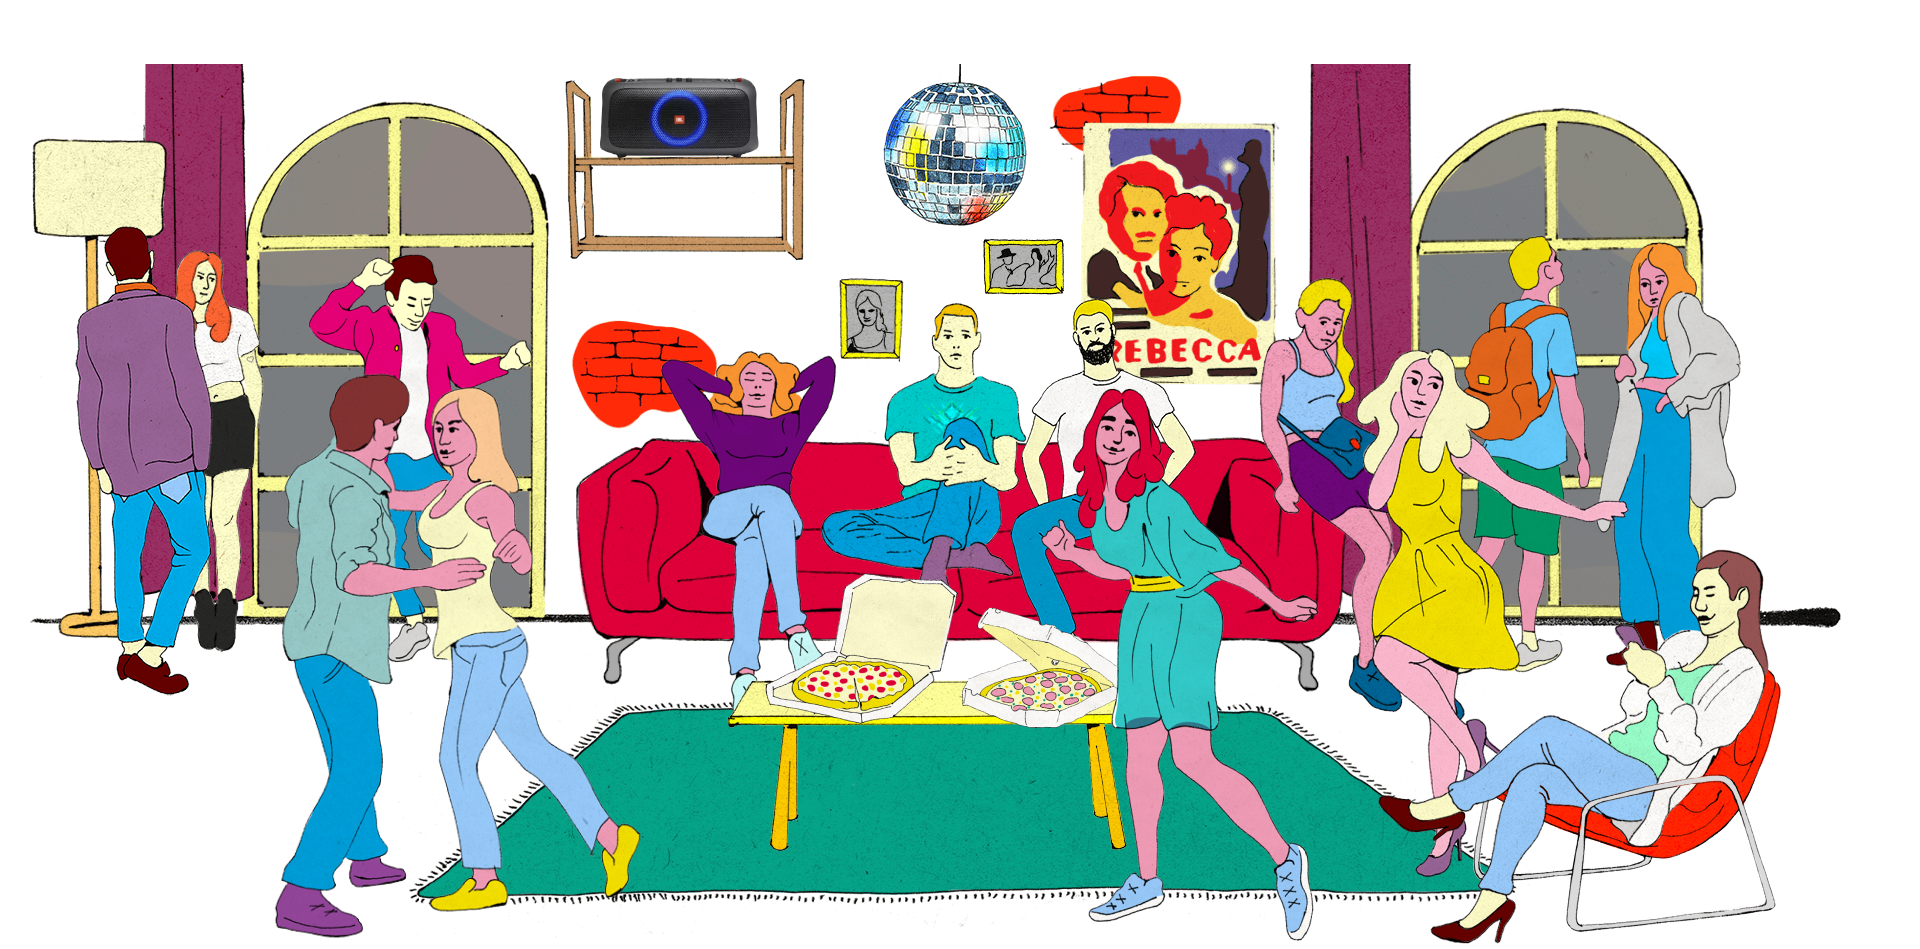
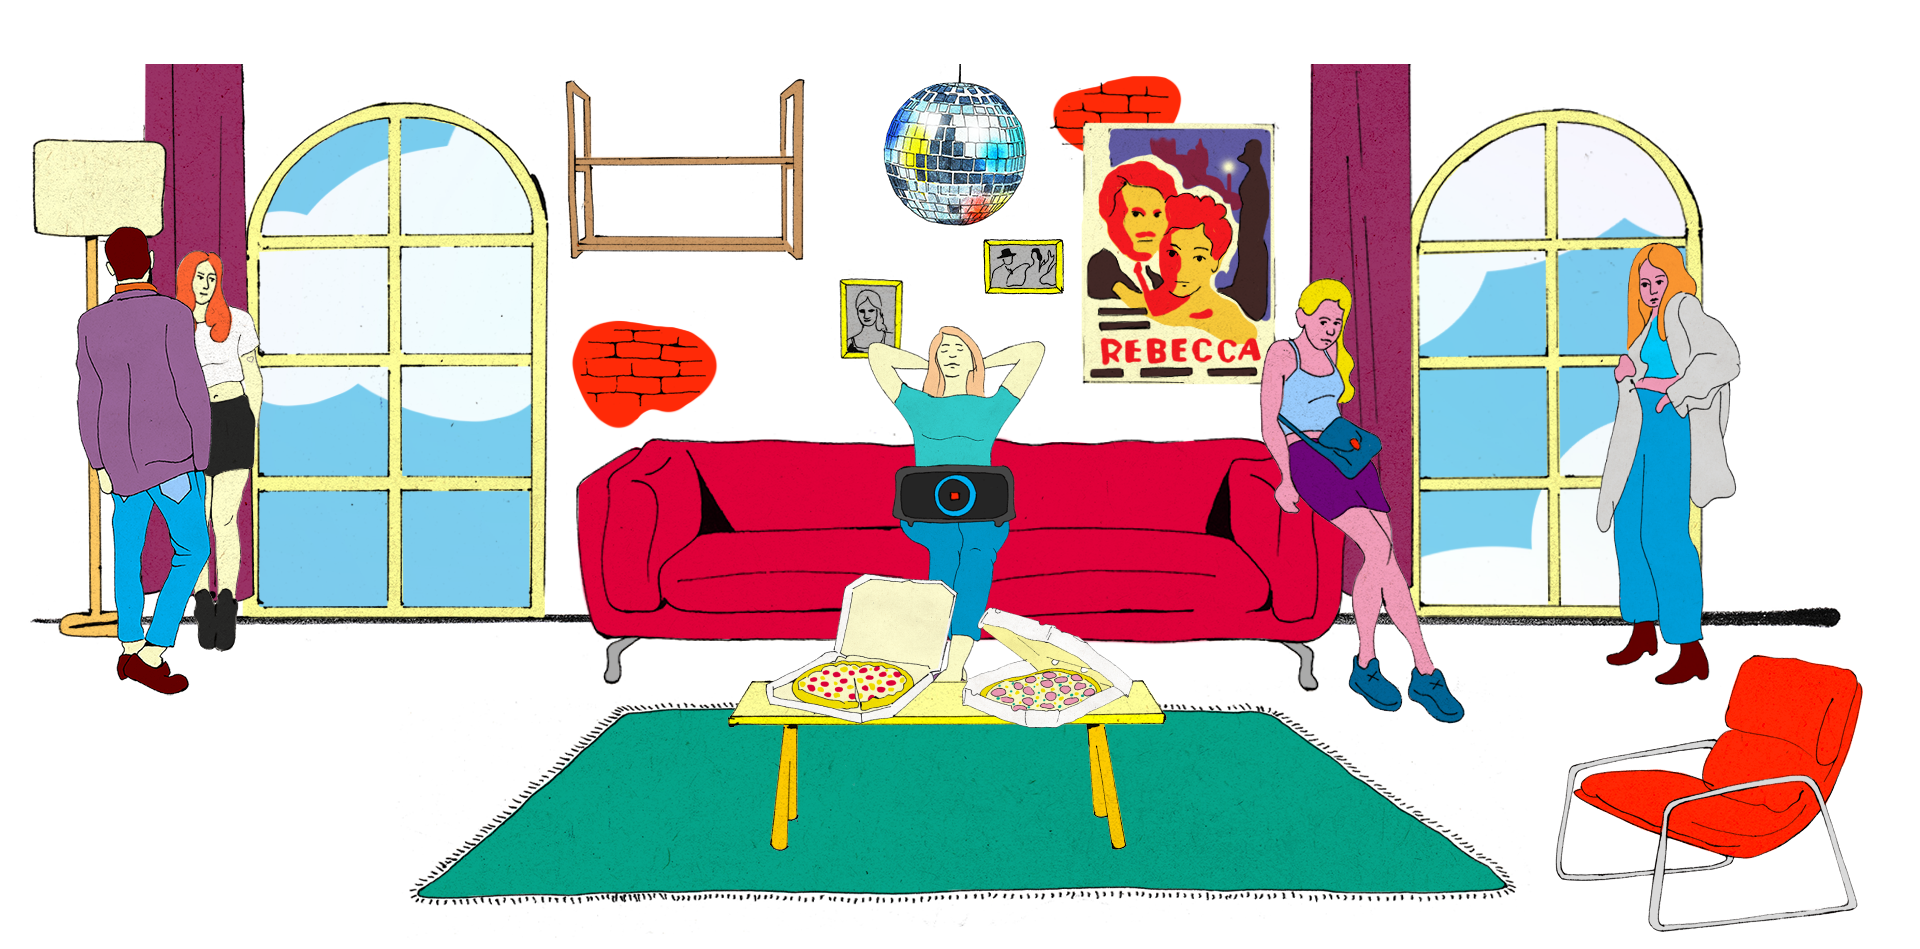
Finish level 2

Changed region(s): [[0.3438, 0.1222, 0.9688, 1.0], [0.125, 0.1222, 0.3438, 1.0], [0.3125, 0.0611, 0.4062, 0.1834]]

diff --git a/src/components/Game/levelsData.js b/src/components/Game/levelsData.js
@@ -3,16 +3,36 @@ const levels = [
         bgImg: 7,
         corect: 12,
         nocorect: 12,
-        animate: [
-            {id: 28, style: {left: '33.7em', top: '18.3em', width: '22.9em', height: '42.1em'}},
-            {id: 29, style: {left: '143.2em', top: '16.8em', width: '14.6em', height: '43.8em'}},
-            {id: 30, style: {left: '132.9em', top: '24.1em', width: '20.2em', height: '56.2em'}},
+        animatePlus: [
+            {id: 28, style: {left: '33.7em', top: '18.3em', width: '22.9em', height: '42.1em'}},//Парень в розовой рубашке
+            {id: 29, style: {left: '143.2em', top: '16.8em', width: '14.6em', height: '43.8em'}},//Парень с рюкзаком
+            {id: 30, style: {left: '132.9em', top: '24.1em', width: '20.2em', height: '56.2em'}},//Парень не гиф с колокой на плече
+        ],
+        animateMinus: [
+            {id: 28, style: {left: '33.7em', top: '18.3em', width: '22.9em', height: '42.1em'}},//Парень в розовой рубашке
+            {id: 29, style: {left: '143.2em', top: '16.8em', width: '14.6em', height: '43.8em'}},//Парень с рюкзаком
+            {id: 30, style: {left: '132.9em', top: '24.1em', width: '20.2em', height: '56.2em'}},//Парень не гиф с колокой на плече
         ]
     },
     {
-        bgImg: 7,
-        corect: 12,
-        nocorect: 13,
+        bgImg: 16,
+        corect: 17,
+        nocorect: 18,
+        animatePlus: [
+            {id: 28, style: {left: '39.4em', top: '18.3em', width: '22.9em', height: '42.1em'}},//Парень в розовой рубашке
+            {id: 29, style: {left: '143.2em', top: '16.8em', width: '14.6em', height: '43.8em'}},//Парень с рюкзаком
+            {id: 31, style: {left: '88.8em', top: '39.9em', width: '11.8em', height: '6em'}}, //Колонка
+            {id: 32, style: {left: '18.4em', top: '33em', width: '26.4em', height: '52.1em'}}, //Девушка спиной
+            {id: 33, style: {left: '56.9em', top: '30em', width: '26.1em', height: '56.4em'}}, //Парень с микрофоном
+            {id: 34, style: {left: '103em', top: '32em', width: '27.9em', height: '55.5em'}}, //Девушка в зеленом
+        ],
+        animateMinus: [
+            {id: 28, style: {left: '39.4em', top: '18.3em', width: '22.9em', height: '42.1em'}},//Парень в розовой рубашке
+            {id: 29, style: {left: '143.2em', top: '16.8em', width: '14.6em', height: '43.8em'}},//Парень с рюкзаком
+            {id: 30, style: {left: '26.2em', top: '24.1em', width: '20.2em', height: '56.2em'}},//Парень не гиф с колокой на плече
+            {id: 34, style: {left: '103em', top: '32em', width: '27.9em', height: '55.5em'}}, //Девушка в зеленом
+            {id: 35, style: {left: '129.9em', top: '27.6em', width: '31em', height: '60em'}}, //Девушка с микрофоном в розовой
+        ]
     },
     {
         bgImg: 16,

diff --git a/src/dataImg.js b/src/dataImg.js
@@ -29,6 +29,11 @@ import scale from './img/scale.png';
 import gif1 from './img/gif1.gif';
 import gif2 from './img/gif2.gif';
 import gif3 from './img/gif3.png';
+import gif4 from './img/gif4.gif';
+import gif5 from './img/gif5.gif';
+import gif6 from './img/gif6.gif';
+import gif7 from './img/gif7.gif';
+import gif8 from './img/gif8.gif';
 
 const dataImages = [
     {
@@ -185,6 +190,31 @@ const dataImages = [
         id: 30,
         name: 'gif3',
         url: gif3
+    },
+    {
+        id: 31,
+        name: 'gif4',
+        url: gif4
+    },
+    {
+        id: 32,
+        name: 'gif5',
+        url: gif5
+    },
+    {
+        id: 33,
+        name: 'gif6',
+        url: gif6
+    },
+    {
+        id: 34,
+        name: 'gif7',
+        url: gif7
+    },
+    {
+        id: 35,
+        name: 'gif8',
+        url: gif8
     },
 ];
 

diff --git a/src/components/Game/Game.js b/src/components/Game/Game.js
@@ -11,12 +11,15 @@ export default function Game() {
 
     const {IMAGES, level, yesno, changeLevel, overley, globalHeight} = useContext(Context);
 
-    const {bgImg, corect, nocorect, animate} = levels[level];
+    const {bgImg, corect, nocorect, animatePlus, animateMinus} = levels[level];
 
     let id = bgImg;
+    let animate = [];
 
-    if(yesno === true) id = corect;
-    if(yesno === false) id = nocorect;
+    if(yesno !== null){
+        animate = yesno ? animatePlus : animateMinus;
+        id = yesno ? corect : nocorect;
+    }
 
     return (
         <div className="app-game" style={{height: globalHeight}}>

diff --git a/src/index.scss b/src/index.scss
@@ -165,12 +165,12 @@ body {
     position: relative;
 }
 
-@media screen and (max-width: 767px) {
-    footer {
-        padding: 0;
-        margin-top: 0;
-    }
-}
+// @media screen and (max-width: 767px) {
+//     footer {
+//         padding: 0;
+//         margin-top: 0;
+//     }
+// }
 
 .app-btn {
     align-items: center;

diff --git a/src/components/AnimateIMG/AnimateIMG.js b/src/components/AnimateIMG/AnimateIMG.js
@@ -3,7 +3,7 @@ import {Context} from '../../context';
 
 import './AnimateIMG.scss';
 
-export default function AnimateIMG({animate}) {
+export default function AnimateIMG({animate = []}) {
 
     const {IMAGES} = useContext(Context);
 
